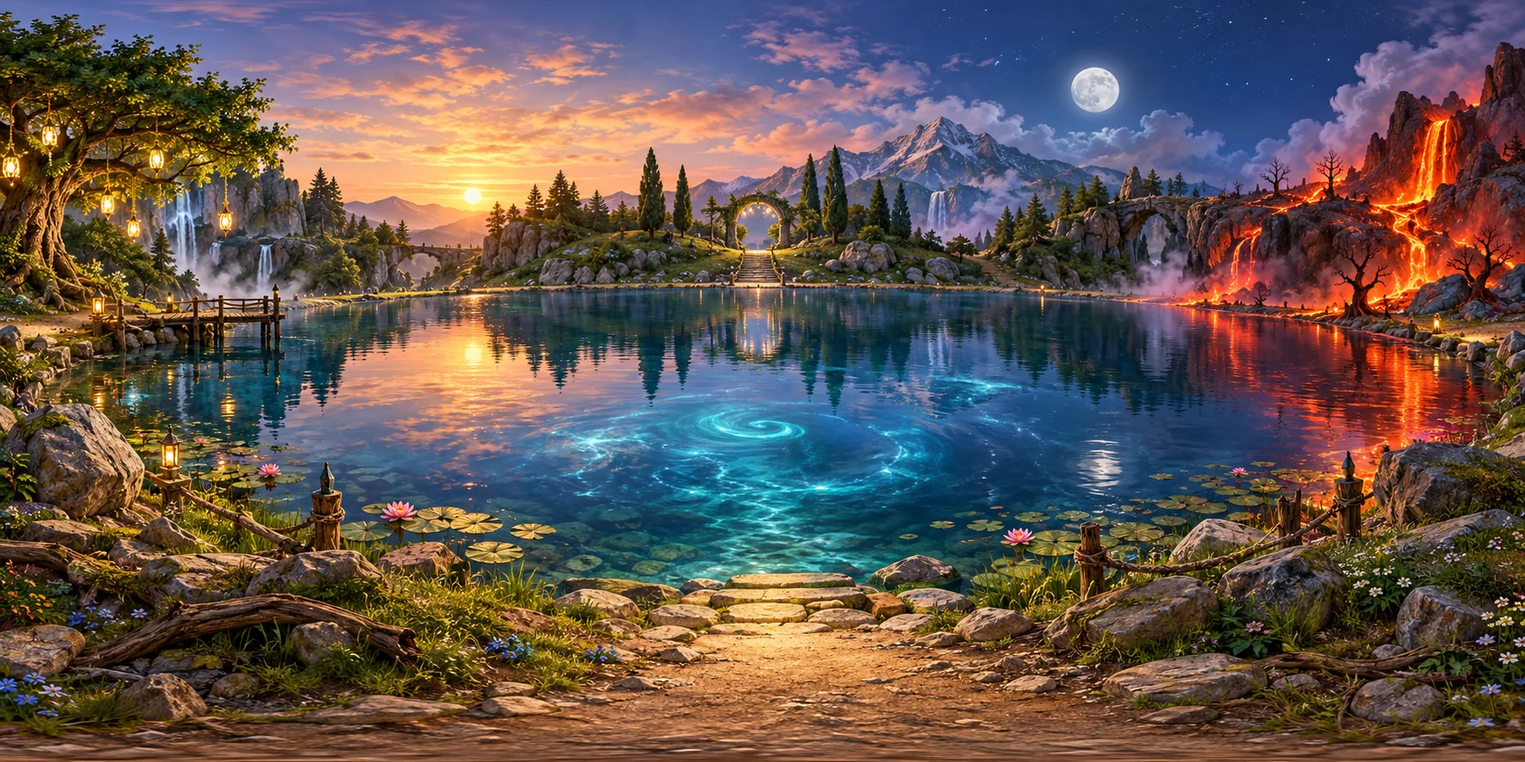
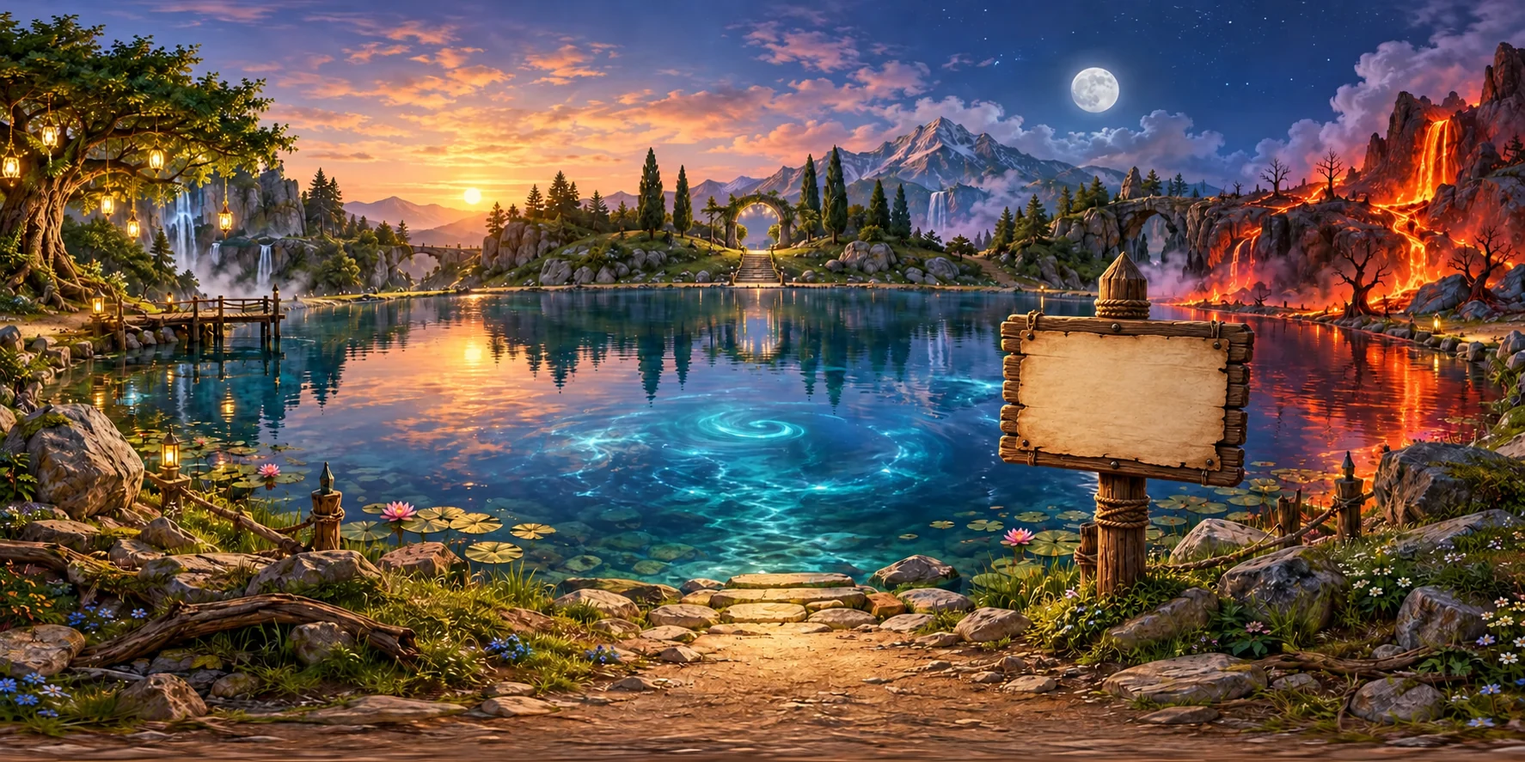
Add files via upload

diff --git a/index.html b/index.html
@@ -1,47 +1,48 @@
 <!doctype html><html lang="it"><meta charset="utf-8"><meta name="viewport" content="width=device-width,initial-scale=1,viewport-fit=cover"><title>Mate e i sette nani · Bosco matematico</title>
-<style>*{box-sizing:border-box}body{margin:0;background:#101b2d;color:white;font:16px system-ui}#panorama-container{position:fixed;inset:0;touch-action:none;background:#101b2d;cursor:grab}#panorama-container canvas{display:block;width:100%;height:100%}header{position:fixed;top:0;left:0;right:0;padding:12px 16px;background:linear-gradient(#102036d9,transparent);display:flex;justify-content:space-between;gap:10px;align-items:center}button{cursor:pointer;border:0;border-radius:14px;padding:11px 15px;font-weight:700;color:#112038;background:#ffe1a0}button:disabled{opacity:.45}#hud{font-size:13px;display:flex;gap:6px;align-items:center}.nav{padding:7px 9px;font-size:12px;background:#ffffffd9}#scene{font-weight:800}#hotspots{position:fixed;inset:0;pointer-events:none}.spot{position:absolute;transform:translate(-50%,-50%);width:48px;height:48px;border:2px solid #fff9;border-radius:50%;background:#fff3;box-shadow:0 0 20px #fff8;pointer-events:auto;color:white;font-size:22px;padding:0}.spot:hover,.spot:focus-visible{background:#ffcb64}#zoomctl{position:fixed;right:12px;top:96px;display:grid;gap:7px}#zoomctl button{font-size:22px;width:42px;height:42px;padding:0}#inventory{position:fixed;left:12px;top:75px;display:flex;gap:6px;flex-wrap:wrap;max-width:60vw}#inventory button{font-size:14px;padding:8px;background:#f4e4b8}#effects{position:fixed;inset:0;pointer-events:none;overflow:hidden;z-index:8}.fall{position:absolute;top:-12vh;font-size:35px;animation:fall 1.55s ease-in forwards}@keyframes fall{to{transform:translate(var(--dx),115vh) rotate(720deg)}}.shake{animation:shake .65s 2}@keyframes shake{25%{transform:translate(8px,9px)}50%{transform:translate(-9px,-5px)}75%{transform:translate(7px,-7px)}}.spot{opacity:.6}.spot:hover,.spot:focus-visible{opacity:1} .spot.sign{width:76px;height:48px;border-radius:6px;background:#8b5b2b;color:#fff;font-size:13px;opacity:.9}.spot.mouth{border-color:#ffe29c;background:#6c3a1b99}.dragging{position:fixed;z-index:20;pointer-events:none;transform:translate(-50%,-50%);font-size:34px}#bottom{position:fixed;bottom:0;left:0;right:0;display:flex;gap:8px;align-items:end;justify-content:center;padding:16px;background:linear-gradient(transparent,#102036d9)}#note{max-width:630px;background:#102036dc;padding:12px;border-radius:14px;font-size:14px}#modal{position:fixed;inset:0;display:none;place-items:center;background:#071525bd;padding:16px}#modal.open{display:grid}.card{background:#f9f2dd;color:#192638;border-radius:22px;padding:22px;max-width:560px;width:100%;max-height:88vh;overflow:auto;box-shadow:0 24px 80px #0009}.card h2{margin-top:0}.card input{width:100%;padding:13px;margin:8px 0 14px;font-size:19px;border-radius:10px;border:1px solid #9aa}.row{display:flex;flex-wrap:wrap;gap:8px;margin-top:10px}.card button{background:#173c57;color:white}.card .secondary{background:#ddd;color:#213}.small{font-size:14px;color:#394954}#toast{position:fixed;top:76px;left:50%;transform:translateX(-50%);background:#192c43;padding:12px 18px;border-radius:16px;display:none;max-width:92vw;text-align:center}#progress{position:fixed;top:51px;right:12px;font-size:12px}@media(max-width:600px){header{align-items:start}#hud{max-width:190px;text-align:right}#bottom{flex-wrap:wrap}#note{width:100%}.spot{width:42px;height:42px}}</style>
+<style>*{box-sizing:border-box}body{margin:0;background:#101b2d;color:white;font:16px system-ui}#panorama-container{position:fixed;inset:0;touch-action:none;background:#101b2d;cursor:grab}#panorama-container canvas{display:block;width:100%;height:100%}header{position:fixed;top:0;left:0;right:0;padding:12px 16px;background:linear-gradient(#102036d9,transparent);display:flex;justify-content:space-between;gap:10px;align-items:center}button{cursor:pointer;border:0;border-radius:14px;padding:11px 15px;font-weight:700;color:#112038;background:#ffe1a0}button:disabled{opacity:.45}#hud{font-size:13px;display:flex;gap:6px;align-items:center}.nav{padding:7px 9px;font-size:12px;background:#ffffffd9}#scene{font-weight:800}#hotspots{position:fixed;inset:0;pointer-events:none}.spot{position:absolute;transform:translate(-50%,-50%);width:48px;height:48px;border:2px solid #fff9;border-radius:50%;background:#fff3;box-shadow:0 0 20px #fff8;pointer-events:auto;color:white;font-size:22px;padding:0}.spot:hover,.spot:focus-visible{background:#ffcb64}#zoomctl{position:fixed;right:12px;top:96px;display:grid;gap:7px}#zoomctl button{font-size:22px;width:42px;height:42px;padding:0}#inventory{position:fixed;left:12px;top:75px;display:flex;gap:6px;flex-wrap:wrap;max-width:60vw}#inventory button{font-size:14px;padding:8px;background:#f4e4b8}#effects{position:fixed;inset:0;pointer-events:none;overflow:hidden;z-index:8}.fall{position:absolute;top:-12vh;font-size:35px;animation:fall 1.55s ease-in forwards}@keyframes fall{to{transform:translate(var(--dx),115vh) rotate(720deg)}}.shake{animation:shake .65s 2}@keyframes shake{25%{transform:translate(8px,9px)}50%{transform:translate(-9px,-5px)}75%{transform:translate(7px,-7px)}}.spot{opacity:.6}.spot:hover,.spot:focus-visible{opacity:1} .spot.sign{width:76px;height:48px;border-radius:6px;background:#8b5b2b;color:#fff;font-size:13px;opacity:.9}.spot.mouth{border-color:#ffe29c;background:#6c3a1b99}.dragging{position:fixed;z-index:20;pointer-events:none;transform:translate(-50%,-50%);font-size:34px}#bottom{position:fixed;bottom:0;left:0;right:0;display:flex;gap:8px;align-items:end;justify-content:center;padding:16px;background:linear-gradient(transparent,#102036d9)}#note{max-width:630px;background:#102036dc;padding:12px;border-radius:14px;font-size:14px}#modal{position:fixed;inset:0;display:none;place-items:center;background:#071525bd;padding:16px}#modal.open{display:grid}.card{background:#f9f2dd;color:#192638;border-radius:22px;padding:22px;max-width:560px;width:100%;max-height:88vh;overflow:auto;box-shadow:0 24px 80px #0009}.card h2{margin-top:0}.card input{width:100%;padding:13px;margin:8px 0 14px;font-size:19px;border-radius:10px;border:1px solid #9aa}.row{display:flex;flex-wrap:wrap;gap:8px;margin-top:10px}.card button{background:#173c57;color:white}.card .secondary{background:#ddd;color:#213}.small{font-size:14px;color:#394954}#toast{position:fixed;top:76px;left:50%;transform:translateX(-50%);background:#192c43;padding:12px 18px;border-radius:16px;display:none;max-width:92vw;text-align:center}#progress{position:fixed;top:51px;right:12px;font-size:12px}@media(max-width:600px){header{align-items:start}#hud{max-width:190px;text-align:right}#bottom{flex-wrap:wrap}#note{width:100%}.spot{width:42px;height:42px}}#modal.intro{padding:0;background:#05080e}#modal.intro .card{width:100vw;height:100dvh;max-width:none;max-height:none;border-radius:0;background:#05080e;color:white;display:flex;flex-direction:column;overflow:hidden;padding:12px}#modal.intro .card h2{margin:0 0 5px;font-size:18px}#modal.intro video{width:100%!important;max-height:none!important;flex:1;min-height:0;object-fit:contain}#modal.intro .card p{margin:6px 0;font-size:14px}#modal.intro .card .row{margin:4px 0;justify-content:center}#modal.intro .card .secondary{display:none}#action[hidden]{display:none!important}.spot.sign{width:230px;height:140px;border:0;border-radius:7px;background:transparent;box-shadow:none;color:#58351b;text-shadow:0 1px #f8e5bd;display:flex;flex-direction:column;justify-content:center;gap:5px;padding:10px 16px;opacity:1;transform:translate(-50%,-50%) scale(var(--sign-scale,1));line-height:1.15}.spot.sign:hover,.spot.sign:focus-visible{outline:3px solid #ffe28e;background:#ffeab245}.sign-title{font-size:13px;font-weight:900}.sign-copy{font-size:13px;font-weight:650}.sign-cta{font-size:12px;font-weight:900;color:#743b13;text-decoration:underline}@media(max-width:600px){.spot.sign{width:175px;height:110px;padding:7px}.sign-title,.sign-copy{font-size:10px}.sign-cta{font-size:10px}}
+</style>
 <div id="panorama-container"></div><div id="hotspots"></div><header><div><div id="scene"></div><div id="progress"></div></div><div id="hud"><button class="nav" onclick="home()">⌂ Radura</button><button class="nav" onclick="resume()" id="resumeBtn" hidden>▶ Riprendi</button><button class="nav" onclick="restart()">↺ Ricomincia</button></div></header><div id="toast"></div><div id="effects"></div><div id="zoomctl"><button type="button" onclick="setZoom(zoom+.45)" aria-label="Ingrandisci">＋</button><button type="button" onclick="setZoom(zoom-.45)" aria-label="Riduci">−</button></div><div id="inventory"></div><div id="bottom"><div id="note"></div><button id="action">Continua</button></div><div id="modal"><div class="card" id="card"></div></div>
 <script src="three.min.js"></script><script src="panorama-viewer.js"></script><script>
-const scenes=[['La radura','01-radura.webp','Mate incontra i sette nani. Biancaneve è prigioniera oltre il Bosco Matematico.','Inizia la missione'],['Il lago incantato','02-lago.webp','La passerella deve misurare esattamente il diametro del lago. Hai diritto a una sola domanda.','Scegli la domanda'],['L’albero di Gauss','03-abete.webp','Cerca il fiore nascosto, trascinalo sulla bocca dell’abete e ascolta il suo problema.','Rispondi'],['Il muro di Talete','04-muro.webp','Le ombre possono rivelare l’altezza del muro.','Rispondi'],['La tana dei licantropi','05-tana.webp','Esplora la tana: trova la pergamena e tre ingredienti. Tocca l’inventario per rileggere la ricetta.','Apri il calderone'],['Il ponte delle pietre','06-ponte.webp','Scopri la regola e scegli le tre pietre successive.','Attraversa'],['Il portone di Biancaneve','07-castello.webp','Le cinque rune raccolte nel viaggio aprono il portone.','Apri il portone']];
+const scenes=[['La radura','01-radura.webp','Mate incontra i sette nani. Biancaneve è prigioniera oltre il Bosco Matematico.','Inizia la missione'],['Il lago incantato','02-lago.webp','Esplora la riva: leggi il cartello per scegliere la domanda.','Scegli la domanda'],['L’albero di Gauss','03-abete.webp','Cerca il fiore nascosto, trascinalo sulla bocca dell’abete e ascolta il suo problema.','Rispondi'],['Il muro di Talete','04-muro.webp','Le ombre possono rivelare l’altezza del muro.','Rispondi'],['La tana dei licantropi','05-tana.webp','Esplora la tana: trova la pergamena e tre ingredienti. Tocca l’inventario per rileggere la ricetta.','Apri il calderone'],['Il ponte delle pietre','06-ponte.webp','Scopri la regola e scegli le tre pietre successive.','Attraversa'],['Il portone di Biancaneve','07-castello.webp','Le cinque rune raccolte nel viaggio aprono il portone.','Apri il portone']];
 const sources=[['exec-2320d075-6bbf-4316-a406-fb3386fff519.png','01-radura.webp'],['exec-6d008de7-eb95-44a7-8fbe-f339d7d8535d.png','02-lago.webp'],['exec-b0ea32f9-404a-4e2c-9de6-8302fe164413.png','03-abete.webp'],['exec-465790d1-9693-47ca-be7c-bcec9768028d.png','04-muro.webp'],['exec-e77aa670-c683-431b-8656-774cef8eaceb.png','05-tana.webp'],['exec-7c35ec59-5a11-4cbb-b454-e4bf8d5b96d0.png','06-ponte.webp'],['exec-a533c482-7c49-4025-b7ca-bfe56d4ddb52.png','07-castello.webp']];
 const KEY='bosco-matematico-v1';let saved;try{saved=JSON.parse(localStorage.getItem(KEY))}catch{}let state=saved&&Number.isInteger(saved.level)?saved:{level:0,runes:[],found:[],params:{}};state.level=Math.max(0,Math.min(6,state.level));state.runes||=[];state.found||=[];state.params||={};let zoom=1;
 const viewer=new PanoramaViewer('panorama-container',scenes[state.level][1],{pitchLimit:70,fov:75,minFov:30,maxFov:100,startLon:180,autoRotate:false});
 viewer.onFrame=()=>drawSpots();
 function render(){viewer.onFrame?.()}
-function load(){viewer.setImage(scenes[state.level][1])}
+function load(){viewer.setImage(scenes[state.level][1]);if(state.level===1)viewer.lon=250}
 function save(){localStorage.setItem(KEY,JSON.stringify(state))}function rand(a){return a[Math.floor(Math.random()*a.length)]}function params(){if(state.params[state.level])return state.params[state.level];let p;switch(state.level){case 1:{let angle=rand([12,15,20,24,30,36,40,45,60,72,90,120]);p={d:(360/angle)*rand([1,2]),angle};break}case 2:p={n:rand([99,399,599,999])};break;case 3:p={who:rand([1.2,1.5]),shadow:rand([1.2,1.5,2]),wallShadow:rand([6,8,10])};break;case 4:p={a:rand([2,3,4]),b:rand([2,3]),c:rand([3,4,5])};break;case 5:p={start:rand([2,3,4]),step:rand([2,3,4])};break;default:p={}}state.params[state.level]=p;save();return p}
 const spots=[[],
- [{name:'Cartello sulla riva',x:.30,y:-.13,kind:'sign',show:()=>{if(zoom<1.65){toast('Avvicinati al cartello con ＋ o con la rotella per leggerlo.');return}modal('Cartello sulla riva',`La passerella va da un bordo all’altro, passando per il centro. La sua lunghezza è il diametro. Se conosci l’area: A = πr². Se conosci la circonferenza: C = πd. Se conosci l’arco: arco = C × angolo / 360.`)}}],
+ [{name:'Cartello sulla riva',x:1.47,y:-.06,kind:'sign',show:()=>readLakeSign()}],
  [{name:'Fiore nascosto',x:-.95,y:-.25,show:()=>collect('fiore del bosco')},{name:'Bocca dell’abete',x:1.2,y:.06,kind:'mouth',show:()=>{if(state.found.includes('fiore del bosco'))toast('Trascina il fiore dall’inventario sulla bocca.');else toast('La bocca è serrata. Trova ciò che nasce senza essere una pigna.')}},{name:'Incisione fra le radici',x:1.6,y:-.40,show:()=>modal('Incisione',`Accoppia il primo numero con l’ultimo: 1 + N, poi 2 + (N−1). Ogni coppia ha la stessa somma.`)}],
  [{name:'Stele di Talete',x:-.6,y:-.17,show:()=>modal('Stele di Talete',`Con il Sole nella stessa posizione, altezza e ombra sono proporzionali: altezza del muro / ombra del muro = altezza del viaggiatore / sua ombra.`)}],
  [{name:'Pergamena',x:.30,y:-.19,show:()=>collect('pergamena')},{name:'Essenza di luna',x:-1.15,y:.25,show:()=>collect('luna')},{name:'Polvere d’argento',x:1.05,y:-.1,show:()=>collect('argento')},{name:'Fiore notturno',x:2.2,y:-.2,show:()=>collect('fiore')}],
  [{name:'Segni sulle pietre',x:0,y:0,show:()=>modal('Indizio',`Confronta due pietre consecutive. Quanto aumenta ogni volta?`)}],[]];
 function drawSpots(){
  let root=document.querySelector('#hotspots'),list=spots[state.level];
- if(root.dataset.level!==String(state.level)||root.children.length!==list.length){root.replaceChildren();root.dataset.level=String(state.level);for(let h of list){let b=document.createElement('button');b.className='spot '+(h.kind||'');b.textContent=h.kind==='sign'?'▤':h.kind==='mouth'?'👄':'✦';b.title=h.name;b.setAttribute('aria-label',h.name);b.onclick=h.show;root.append(b)}}
+ if(root.dataset.level!==String(state.level)||root.children.length!==list.length){root.replaceChildren();root.dataset.level=String(state.level);for(let h of list){let b=document.createElement('button');b.className='spot '+(h.kind||'');b.innerHTML=h.kind==='sign'?'<span class="sign-title">PER ATTRAVERSARE IL LAGO</span><span class="sign-copy">Serve una passerella da bordo a bordo, attraverso il centro.</span><span class="sign-cta">Scegli la domanda →</span>':h.kind==='mouth'?'👄':'✦';b.title=h.name;b.setAttribute('aria-label',h.name);b.onclick=h.show;root.append(b)}}
  viewer.camera.updateMatrixWorld();
  list.forEach((h,i)=>{let lat=h.y,lon=Math.PI+h.x;
   let pos=new THREE.Vector3(500*Math.cos(lat)*Math.cos(lon),500*Math.sin(lat),500*Math.cos(lat)*Math.sin(lon));
   let p=pos.project(viewer.camera),el=root.children[i];
-  el.style.display=p.z<0||p.z>1||Math.abs(p.x)>1.15||Math.abs(p.y)>1.15?'none':'block';
+  el.style.display=p.z<0||p.z>1||Math.abs(p.x)>1.15||Math.abs(p.y)>1.15?'none':h.kind==='sign'?'flex':'block';if(h.kind==='sign')el.style.setProperty('--sign-scale',Math.max(.82,Math.min(1.65,75/viewer.fov)).toFixed(2));
   el.style.left=(p.x+1)*50+'%';el.style.top=(1-p.y)*50+'%';
   if(!h.kind)el.textContent=state.found.includes(h.name.toLowerCase())?'✓':'✦';
  })
 }
 function setZoom(z){zoom=Math.max(1,Math.min(2.5,z));viewer.fov=Math.max(30,Math.min(100,75/zoom));viewer.camera.fov=viewer.fov;viewer.camera.updateProjectionMatrix();drawSpots()}
-function toast(t){let el=document.querySelector('#toast');el.textContent=t;el.style.display='block';clearTimeout(toast.timer);toast.timer=setTimeout(()=>el.style.display='none',3400)}function modal(title,html){document.querySelector('#card').innerHTML='<h2>'+title+'</h2>'+html+'<div class="row"><button class="secondary" onclick="closeModal()">Chiudi</button></div>';document.querySelector('#modal').classList.add('open')}function closeModal(){document.querySelector('#modal').classList.remove('open')}function collect(item){if(!state.found.includes(item))state.found.push(item);save();inventory();if(item==='pergamena')recipe();else modal('Oggetto trovato','Hai raccolto: <strong>'+item+'</strong>. '+(item==='fiore del bosco'?'Trascinalo dalla borsa alla bocca dell’abete.':''));render()}
-function page(){let s=scenes[state.level];document.querySelector('#scene').textContent=s[0];document.querySelector('#progress').textContent=(state.level+1)+'/7 · Rune: '+state.runes.length+'/5';document.querySelector('#note').textContent=s[2];document.querySelector('#action').textContent=s[3];params();zoom=1;document.querySelector('#resumeBtn').hidden=!(state.level===0&&state.resume>0);load();drawSpots();inventory();save()}
+function toast(t){let el=document.querySelector('#toast');el.textContent=t;el.style.display='block';clearTimeout(toast.timer);toast.timer=setTimeout(()=>el.style.display='none',3400)}function modal(title,html){document.querySelector('#modal').classList.remove('intro');document.querySelector('#card').innerHTML='<h2>'+title+'</h2>'+html+'<div class="row"><button class="secondary" onclick="closeModal()">Chiudi</button></div>';document.querySelector('#modal').classList.add('open')}function closeModal(){document.querySelector('#modal').classList.remove('open','intro')}function collect(item){if(!state.found.includes(item))state.found.push(item);save();inventory();if(item==='pergamena')recipe();else modal('Oggetto trovato','Hai raccolto: <strong>'+item+'</strong>. '+(item==='fiore del bosco'?'Trascinalo dalla borsa alla bocca dell’abete.':''));render()}
+function page(){let s=scenes[state.level];document.querySelector('#scene').textContent=s[0];document.querySelector('#progress').textContent=(state.level+1)+'/7 · Rune: '+state.runes.length+'/5';document.querySelector('#note').textContent=s[2];document.querySelector('#action').textContent=s[3];document.querySelector('#action').hidden=state.level===1;params();zoom=1;document.querySelector('#resumeBtn').hidden=!(state.level===0&&state.resume>0);load();drawSpots();inventory();save()}
 function next(){document.querySelector('video')?.pause();closeModal();if(state.level<6){state.level++;state.found=[];page()}else{modal('Biancaneve è libera!','Mate e i sette nani hanno attraversato il Bosco Matematico insieme. <div class="row"><button onclick="restart()">Ricomincia con nuovi numeri</button></div>')}}function home(){document.querySelector('video')?.pause();if(state.level>0)state.resume=state.level;state.level=0;page();closeModal()}function resume(){if(state.resume>0){state.level=state.resume;delete state.resume;page();closeModal()}}function restart(){if(!confirm('Ricominciare da capo con nuovi numeri?'))return;document.querySelector('video')?.pause();state={level:0,runes:[],found:[],params:{}};page();closeModal()}
 function win(){const rune=['🌊','🌲','☀','🧪','🌉'][state.level-1];state.runes.push(rune);save();modal('Prova superata!',`Avete conquistato la runa ${rune}. <div class="row"><button onclick="next()">Prosegui</button></div>`)}function fail(msg){modal('La tappa ricomincia',msg+' <p class="small">Il percorso precedente resta salvato. Potete cercare un indizio e riprovare.</p>')}
 function number(id){let raw=document.getElementById(id)?.value.trim();if(!raw)return NaN;let v=Number(raw.replace(',','.'));return Number.isFinite(v)?v:NaN}function check(target,msg){let v=number('answer');if(Math.abs(v-target)<.015)win();else if(state.level===2){closeModal();pinefall();setTimeout(()=>fail('Le pigne vi hanno travolto! Riprova la somma.'),1400)}else fail(msg)}
-function action(){let p=params();switch(state.level){case 0:modal('La missione comincia','<video id="intro" controls playsinline preload="metadata" style="width:100%;max-height:55vh;border-radius:12px;background:black" src="intro.mp4"></video><p>Mate e i sette nani si preparano a entrare nel Bosco Matematico.</p><div class="row"><button onclick="next()">Inizia la missione</button></div>');document.querySelector('#intro').play().catch(()=>{});break;
-case 1: {let ask=state.params[1].ask;if(!ask){modal('Una sola domanda','<p>Scegli quale misura conoscere. Le altre due non saranno più disponibili.</p><div class="row"><button onclick="askLake(\'area\')">Area</button><button onclick="askLake(\'circ\')">Circonferenza</button><button onclick="askLake(\'arc\')">Arco</button></div>')}else lakeForm();break}
+function action(){let p=params();switch(state.level){case 0:modal('La missione comincia','<video id="intro" controls playsinline preload="metadata" style="width:100%;max-height:55vh;border-radius:12px;background:black" src="intro.mp4"></video><p>Mate e i sette nani si preparano a entrare nel Bosco Matematico.</p><div class="row"><button onclick="next()">Inizia la missione</button></div>');document.querySelector('#modal').classList.add('intro');document.querySelector('#intro').play().catch(()=>{});break;
+case 1:readLakeSign();break;
 case 2:if(!p.awake){toast('Cerca il fiore nella scena e trascinalo sulla bocca dell’abete.');return}modal('L’albero delle pigne',`Dal ramo con ${p.n} pigne fino a quello con 1, scendendo di una pigna alla volta: quante pigne in tutto?<input id="answer" type="number" inputmode="numeric"><button onclick="check(${p.n}*(${p.n}+1)/2,'Una cascata di pigne vi riporta ai piedi dell’albero!')">Conferma</button>`);break;
 case 3:modal('Il muro e le ombre',`Altezza ${p.who===1.5?'di Mate':'di un nano'}: ${p.who} m. Ombra: ${p.shadow} m. Ombra del muro: ${p.wallShadow} m. Quanto è alto il muro, in metri?<input id="answer" type="text" inputmode="decimal"><button onclick="check(${p.who*p.wallShadow/p.shadow},'La scala non raggiunge la cima: tornate a misurare le ombre.')">Conferma</button>`);break;
 case 4:if(!['pergamena','luna','argento','fiore'].every(x=>state.found.includes(x))){toast('Esplora: servono la pergamena e tutti e tre gli ingredienti.');return}modal('La pozione per otto',`La pergamena dà la dose per UNA persona: ${p.a} gocce di luna, ${p.b} misure d’argento, ${p.c} petali. Inserisci le quantità per Mate e i sette nani.<label>Luna<input id="l" type="number" inputmode="numeric"></label><label>Argento<input id="a" type="number" inputmode="numeric"></label><label>Petali<input id="f" type="number" inputmode="numeric"></label><button onclick="potion()">Prepara</button>`);break;
 case 5:modal('Il ponte delle pietre',`Le prime pietre riportano ${p.start}, ${p.start+p.step}, ${p.start+2*p.step}, ${p.start+3*p.step}. Digita i numeri delle TRE pietre successive, separati da virgole.<input id="seq" type="text" inputmode="text" placeholder="es. 10, 12, 14"><button onclick="bridge()">Attraversa</button>`);break;
 case 6:modal('Il portone magico',`<p>«Nell’ordine del viaggio, le rune dovete disporre; dal lago al ponte il varco si può aprire.»</p><p>Rune raccolte: ${state.runes.join(' ')}</p><p>Inserisci le iniziali dei luoghi nell’ordine attraversato: Lago, Albero, Muro, Tana, Ponte.</p><input id="code" maxlength="5" autocapitalize="characters" placeholder="Cinque lettere"><button onclick="gate()">Apri</button>`);break}}
-function gcd(a,b){while(b)[a,b]=[b,a%b];return a}function fraction(a,b){let g=gcd(a,b);a/=g;b/=g;return b===1?String(a):a+'/'+b}function askLake(type){let p=params();if(type==='arc')p.d=(360/p.angle)*rand([1,2]);p.ask=type;save();lakeForm()}function lakeForm(){let p=params();if(p.ask==='arc'&&(p.d*p.angle)%360!==0){p.d=360/p.angle;save()}let d=p.d;let data=p.ask==='area'?`Area = ${d*d/4}π m²`:p.ask==='circ'?`Circonferenza = ${d}π m`:`Arco di ${p.angle}° = ${d*p.angle/360}π m`;modal('La passerella',`L’unica risposta ricevuta è: <strong>${data}</strong>. Qual è la lunghezza esatta della passerella, in metri? Inserisci un numero senza π.<input id="answer" type="text" inputmode="decimal"><button onclick="lakeCheck()">Posa la passerella</button>`)}function lakeCheck(){let v=number('answer'),d=params().d;if(Math.abs(v-d)<.015)win();else fail(v<d?'La passerella è troppo corta: tutti finiscono nell’acqua del lago!':'La passerella supera la riva e conduce verso il fuoco!')}
+function readLakeSign(){let p=params();modal('Il cartello sulla riva',`<p>Per raggiungere il sentiero sull’altra riva, la passerella deve andare esattamente da un bordo all’altro del lago circolare, passando per il centro. Se è troppo corta, cadrete nell’acqua; se è troppo lunga, arriverete alla sponda infuocata.</p><p>Potete fare <strong>una sola domanda</strong> per trovare la lunghezza giusta.</p><div class="row"><button onclick="chooseLakeQuestion()">${p.ask?'Rivedi la misura scelta':'Scegli la domanda'}</button></div>`)}function chooseLakeQuestion(){let p=params();if(p.ask){lakeForm();return}modal('Quale misura vuoi conoscere?','<p>Puoi chiedere soltanto una di queste tre misure.</p><div class="row"><button onclick="askLake(\'area\')">Area del lago</button><button onclick="askLake(\'circ\')">Circonferenza</button><button onclick="askLake(\'arc\')">Lunghezza di un arco</button></div>')}function gcd(a,b){while(b)[a,b]=[b,a%b];return a}function fraction(a,b){let g=gcd(a,b);a/=g;b/=g;return b===1?String(a):a+'/'+b}function askLake(type){let p=params();if(type==='arc')p.d=(360/p.angle)*rand([1,2]);p.ask=type;save();lakeForm()}function lakeForm(){let p=params();if(p.ask==='arc'&&(p.d*p.angle)%360!==0){p.d=360/p.angle;save()}let d=p.d;let data=p.ask==='area'?`Area = ${d*d/4}π m²`:p.ask==='circ'?`Circonferenza = ${d}π m`:`Arco di ${p.angle}° = ${d*p.angle/360}π m`;modal('La passerella',`L’unica risposta ricevuta è: <strong>${data}</strong>. Qual è la lunghezza esatta della passerella, in metri? Inserisci un numero senza π.<input id="answer" type="text" inputmode="decimal"><button onclick="lakeCheck()">Posa la passerella</button>`)}function lakeCheck(){let v=number('answer'),d=params().d;if(Math.abs(v-d)<.015)win();else fail(v<d?'La passerella è troppo corta: tutti finiscono nell’acqua del lago!':'La passerella supera la riva e conduce verso il fuoco!')}
 function potion(){let p=params();if(number('l')===8*p.a&&number('a')===8*p.b&&number('f')===8*p.c)win();else fail('La pozione diventa fluorescente: i licantropi vi scoprono!')}function bridge(){let p=params(),v=document.querySelector('#seq').value.split(/[,;\s]+/).filter(Boolean).map(Number);if(v.length===3&&v.every((x,i)=>x===p.start+(i+4)*p.step))win();else fail('Una pietra si sgretola: tornate all’inizio del ponte.')}function gate(){if(document.querySelector('#code').value.trim().toUpperCase()==='LAMTP')next();else toast('Osserva l’ordine delle cinque tappe dopo la radura.')}
 document.querySelector('#action').onclick=action;document.querySelector('#modal').onclick=e=>{if(e.target.id==='modal')closeModal()};page();
 </script></html>
